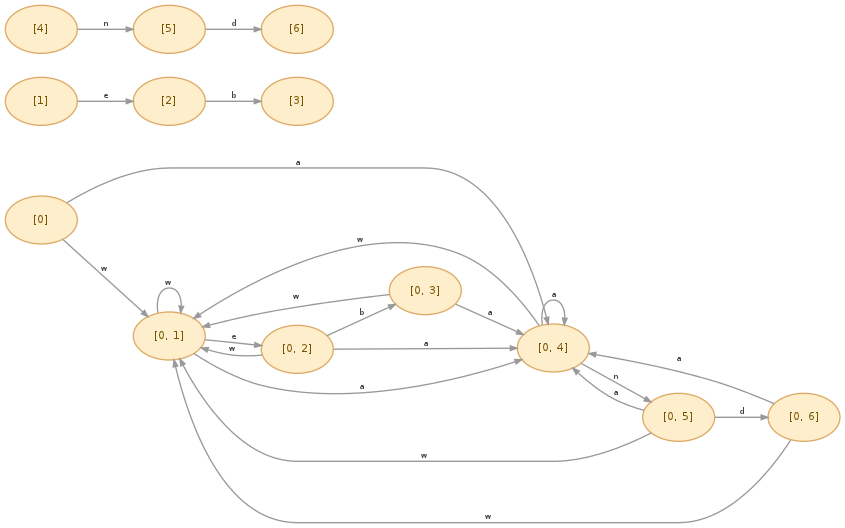
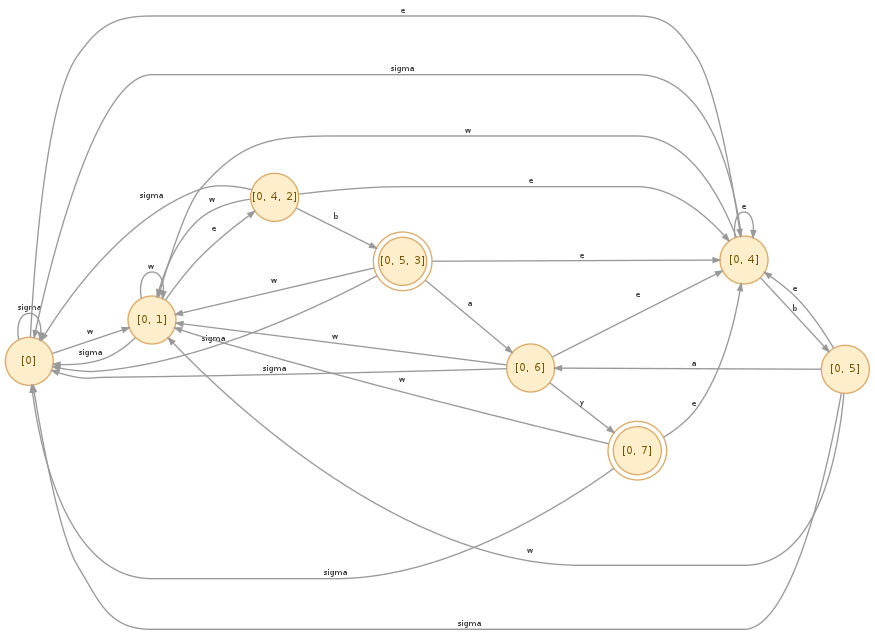
good version with vis

diff --git a/web.rb b/web.rb
@@ -5,7 +5,7 @@ require 'graphviz'  # this loads the ruby-graphviz gem
 load 'dfa.rb'
 load 'nfa.rb'
 
-@nfa = NFA.new ["web","and"]
+@nfa = NFA.new ["web","ebay"]
 
 puts("Hash:\n")
 
@@ -16,6 +16,9 @@ puts("\nFinal states:\n")
 puts @nfa.final_states.to_s
 
 puts("\n")
+
+puts @nfa.hash[[0,5,3]].default
+puts ("\n")
 #we have the states S, W, E, B
 d = DFA.new([0], @nfa.final_states)
 @table = @nfa.hash
@@ -27,14 +30,14 @@ d.transition do |s,a|
   @table[s][a]
 end
 
-input = ['a','n','d', 'b','w','e'].map do |a|
-  if d.eat a
-  	puts d.state.to_s
- 	end
-end
+#input = ['a','n','d', 'b','w','e'].map do |a|
+#  if d.eat a
+#  	puts d.state.to_s
+# 	end
+#end
 puts("\n")
 
-
+#visualizing the automat
 # initialize new Graphviz graph
 g = GraphViz::new( "structs", "type" => "graph" )
 g[:rankdir] = "LR"
@@ -42,7 +45,7 @@ g[:rankdir] = "LR"
 # set global node options
 g.node[:color]    = "#ddaa66"
 g.node[:style]    = "filled"
-#g.node[:shape]    = "box"
+g.node[:shape]    = "circle"
 g.node[:penwidth] = "1"
 g.node[:fontname] = "Trebuchet MS"
 g.node[:fontsize] = "8"
@@ -52,6 +55,7 @@ g.node[:margin]   = "0.0"
 
 # set global edge options
 g.edge[:color]    = "#999999"
+g.node[:shape]    = "circle"
 g.edge[:weight]   = "1"
 g.edge[:fontsize] = "6"
 g.edge[:fontcolor]= "#444444"
@@ -60,17 +64,33 @@ g.edge[:dir]      = "forward"
 g.edge[:arrowsize]= "0.5"
 
 
-# add nodes
+# adding nodes
 @nfa.hash.each do |key, value|
-puts "Key #{key.inspect} has value #{value.inspect}"
-source_node_name = key.to_s
-g.add_nodes(source_node_name).label = key.to_s
-value.each do |edge_label, target_node|
-puts "edge_label: #{edge_label.inspect} target_node #{target_node.inspect}"
-target_node_name = target_node.to_s
-g.add_edges(source_node_name, target_node_name).label = edge_label.to_s
+    puts "Key #{key.inspect} has value #{value.inspect}"
+    source_node_name = key.to_s
+
+    # putting double circles around final states
+    if @nfa.final_states.include?(key)
+        g.add_nodes(source_node_name).shape = "doublecircle"
+        
+    end
+    
+    g.add_nodes(source_node_name).label = key.to_s 
+    value.each do |edge_label, target_node| #connecting nodes with edges
+        puts "edge_label: #{edge_label.inspect} target_node #{target_node.inspect}"
+        target_node_name = target_node.to_s
+        edge_label_str = edge_label.to_s
+        g.add_edges(source_node_name, target_node_name).label = edge_label_str
+    end
+
+    
+    
+    
+    default_node_name = @nfa.hash[key].default.to_s
+    g.add_edges(source_node_name, default_node_name).label = "sigma"
 end
-end
+
+    
 
 g.output(:png => "webtest1.png" )
 

diff --git a/test.rb b/test.rb
@@ -1,0 +1,88 @@
+require 'rubygems'  # allows for the loading of gems
+require 'graphviz'  # this loads the ruby-graphviz gem
+
+# Constants defining file names and paths
+CSVRecipeFileName   = "recipes.csv"
+CSVRecipeFilePath   = File.join(".")
+CSVMaterialFileName = "materials.csv"
+CSVMaterialFilePath = File.join(".")
+CSVPlantFileName    = "plants.csv"
+CSVPlantFilePath    = File.join(".")
+OutputPath          = File.join(".")
+
+# load 3 arrays with CSV data
+recipes = []; materials = []; plants = []
+[[CSVRecipeFileName,   CSVRecipeFilePath,   recipes], 
+ [CSVMaterialFileName, CSVMaterialFilePath, materials],
+ [CSVPlantFileName,    CSVPlantFilePath,    plants]].each do |array|
+   File.open(File.join(array[1], array[0])).each do |line| 
+     array[2] << line.chop.split(",")
+   end
+end
+puts("recipes: ")
+   puts recipes
+
+# initialize new Graphviz graph
+g = GraphViz::new( "structs", "type" => "graph" )
+g[:rankdir] = "LR"
+
+# set global node options
+g.node[:color]    = "#ddaa66"
+g.node[:style]    = "filled"
+g.node[:shape]    = "box"
+g.node[:penwidth] = "1"
+g.node[:fontname] = "Trebuchet MS"
+g.node[:fontsize] = "8"
+g.node[:fillcolor]= "#ffeecc"
+g.node[:fontcolor]= "#775500"
+g.node[:margin]   = "0.0"
+
+# set global edge options
+g.edge[:color]    = "#999999"
+g.edge[:weight]   = "1"
+g.edge[:fontsize] = "6"
+g.edge[:fontcolor]= "#444444"
+g.edge[:fontname] = "Verdana"
+g.edge[:dir]      = "forward"
+g.edge[:arrowsize]= "0.5"
+
+#########
+puts plants
+puts ("\n\n\n")
+puts plants[0][1]
+puts ("\n")
+puts plants[1]
+puts ("\n")
+puts plants[2]
+#########
+
+
+# draw our nodes, i.e., plants
+
+plants.each do |plant|
+  g.add_nodes(plant[0]).label = plant[1]+
+  "\\n"+
+    plant[2]+
+    ", "+plant[3]+
+    "\\n("+
+    plant[0]+
+    ")"
+end
+
+# brute force, but simple function to find a material record by number
+def find_material_record(materials_array, material_number)
+  materials_array.collect{|m| m[1] unless m.index(material_number).nil?}.compact[0]
+end
+
+# connect the nodes with our recipes, add labels from material data
+recipes.each do |recipe|
+  end_material       = find_material_record(materials, recipe[1])
+  component_material = find_material_record(materials, recipe[3])
+  g.add_edges(recipe[4],recipe[2]).label=
+    component_material+" for\\n"+end_material+"\\n(Recipe "+recipe[0]+")"
+end
+
+#g.output( "output" => "png", :file => OutputPath+"/graph.jpeg" )
+g.output(:png => "test2.png" )
+
+

diff --git a/nfa.rb b/nfa.rb
@@ -30,7 +30,7 @@ class NFA
 					@hash[0] = @hash[0].merge(keyword[0] => [0, offset + 1])
 				when keyword.length
 					@hash = @hash.merge({ (offset + i) => Hash.new([-1]) })
-					@final_states.push [offset + i]
+					final_states.push [offset + i]
 					#@final_states_output_index.merge
 				else
 					@hash = @hash.merge({ (offset + i) => Hash.new([-1]).merge(keyword[i] => [offset + i+1]) })
@@ -40,11 +40,23 @@ class NFA
 	end
 
 	def normalize
+	    @hash = @hash.merge [0] => @hash[0]
+		
 		@hash.each do |key, value|
 			bombing key
-			@hash = @hash.merge [key] => value
-			@hash.delete key
+			unless key == [0]
+			    @hash.delete key
+			end
 		end
+		@hash.delete 0
+		tmp = []
+		@final_states.each do |state|		    
+		    unless state.length == 1
+		        tmp = tmp.push state
+		    end
+		end
+		@final_states = tmp
+
 	end
 
 
